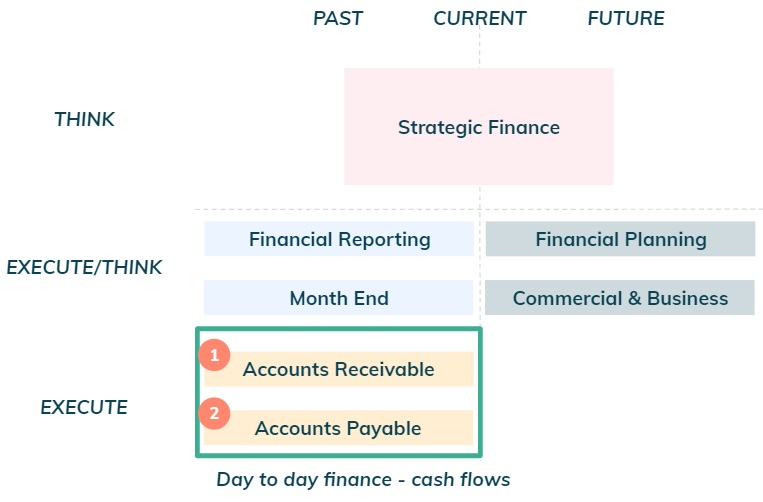
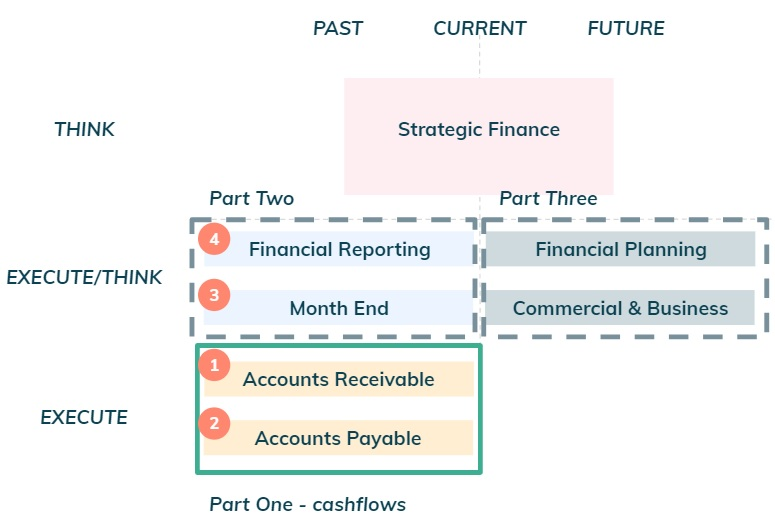
done

diff --git a/POSTS/DOT6.html b/POSTS/DOT6.html
@@ -4,8 +4,8 @@
         <meta name="viewport" content="width=device-width, initial-scale=1, shrink-to-fit=no" />
         <meta property="og:type" content="article"/>
         <meta property="og:url" content="http://dotslog.com/POSTS/DOT6.html"/>
-        <meta property="og:title" content="Dot 6 (How To): Operational Finance - Part One"/>
-        <meta property="og:description" content="How to automate finance tasks relating to AP & AR"/>
+        <meta property="og:title" content="Dot #6 : Operational Finance - Part One"/>
+        <meta property="og:description" content="Automating finance tasks relating to cashflows"/>
         <meta property="og:image" content="http://dotslog.com/DOTFILES/DOT5/img/pexels-tyler-lastovich-808465-min.jpg"/>
         <meta property="og:site_name" content="DotsLog"/>
         <meta charset="utf-8" />
@@ -42,8 +42,8 @@
                 <div class="row gx-4 gx-lg-5 justify-content-center">
                     <div class="col-md-10 col-lg-8 col-xl-7">
                         <div class="post-heading">
-                            <h2 >Dot 6 (How To): Operational Finance - Part One</h2>
-                            <h3 class="subheading">How to automate finance tasks relating to AP & AR</h3>
+                            <h2 >Dot #6 : Operational Finance - Part One</h2>
+                            <h3 class="subheading">Automating finance tasks relating to cashflows</h3>
                             <span class="meta">
                                 Written by
                                 <a href="../index.html">Tiago Dias</a>
@@ -62,29 +62,26 @@
                         <!-- SUMMARY-->
                         <h1 > Summary</h1>
                         <p align="justify">                         
-                            This note goes through a detailed overview of the operations relating to Accounts Receivable 
-                            and Account Payable for a young startup and explains how to automate some of the steps. 
-                            Part two and three will cover respectively Financial Reporting and Financial Planning.                                                    
-                        </p>                
-                        <!-- SECTION 1-->
-                        <h2 class="section-heading">Day to to day finance: cash flows </h2>
-                        <p align="justify">
-                            In a previous note, the key finance tasks were split as follows.
+                            This is the first note of a series of three notes that will go through day to day finance 
+                            tasks and how to automate them to minimise time spent producing numbers. <br>                                            
+                            Part one goes through a detailed overview of the operations relating to cashflows 
+                            for a young startup (series B or earlier).<br> Part two and three will cover respectively 
+                            Financial Reporting and Financial Planning.
                         </p>
                         <img class="img-fluid" src="../DOTFILES/DOT6/img/D6P1.jpg" alt="..." />
-                        <span class="caption text-muted">Figure 1: Finance key tasks.</span>
+                        <span class="caption text-muted">Figure 1: Series of three notes.</span>
                         <p align="justify">
-                            On this note we are going to drill down on the operations for the cash flows of a young 
-                            startup as per the figure below.
+                            On this note we are going to drill down finance tasks relating to Accounts Receivable (“AR”), 
+                            i.e. inflows to be received from clients and Accounts Payable (“AP”), i.e. outflows to be paid to suppliers.
                         </p>
                         <img class="img-fluid" src="../DOTFILES/DOT6/img/D6P2.jpg" alt="..." />
                         <span class="caption text-muted">Figure 2: Accounts Receivable and Accounts Payable.</span>
                         <p align="justify">
                             Cashflows are thus equal to cash inflows from clients relating to revenues net 
-                            of cash outflows paid to suppliers. As a reminder, a common source of mistakes in 
+                            of cash outflows paid to suppliers.<br> As a reminder, <strong>a common source of mistakes in 
                             numbers is to represent both as positive numbers and subtract them; to avoid this, 
                             one should represent cash inflows as a positive number (e.g £100) and cash outflows as 
-                            a negative number (e.g (£20)) and then ADD both numbers to get to cash flows (£80 = £100 + (£20)).
+                            a negative number (e.g (£20)) and then ADD both numbers</strong> to get to cash flows (£80 = £100 + (£20)).
                         </p>
 
                          <!-- SECTION 2-->
@@ -92,9 +89,9 @@
                         <p align="justify">
                             Whenever there is revenue earned, there will be an invoice sent to a 
                             client requesting payment for the service or product and the amount is 
-                            recognised in the P&L statement.  Accounts Receivables (“AR”) thus relates to 
-                            client invoices for which payment has not been received yet. These show up as a 
-                            current asset in the balance sheet (i.e. cash inflow expected soon).
+                            recognised in the P&L statement.<br> <strong> Accounts Receivables (“AR”) relates to 
+                            client invoices for which payment has not been received yet</strong>. These show up as a 
+                            current asset in the balance sheet (i.e. cash inflow expected to be received soon).
                         </p>
                         <img class="img-fluid" src="../DOTFILES/DOT6/img/D6P3.jpg" alt="..." />
                         <span class="caption text-muted">Figure 3: Accounts Receivable concept.</span>
@@ -106,20 +103,30 @@
                         <img class="img-fluid" src="../DOTFILES/DOT6/img/D6P4.jpg" alt="..." />
                         <span class="caption text-muted">Figure 4: Accounts Receivable operational steps.</span>
                         <p align="justify">
-                            Accounting systems such as Xero or Quickbooks automate steps A and B above, 
-                            however this will break above a certain volume of invoices (likely fine for up to hundreds per month), 
-                            different currencies and number of legal entities. For simple applications the following spreadsheet 
-                            <a href="https://docs.google.com/spreadsheets/d/1K5jHVBWgto4FvnvAsHJ6GQM60pnoubcpqRKjS19zJGM/edit#gid=1856528211" target="_blank">
-                                (AR automatic emails for invoices)</a>, automates sending an email with an invoice to a client 
-                            using a google apps script (see appendix for details).
+                            <strong>Steps A and B:</strong> For simple applications the following spreadsheet 
+                                    <a href="https://docs.google.com/spreadsheets/d/1K5jHVBWgto4FvnvAsHJ6GQM60pnoubcpqRKjS19zJGM/edit#gid=1856528211" target="_blank">
+                                        (AR automatic emails for invoices)</a>, automates sending an email with an invoice to a client 
+                                    using a google apps script (see appendix for details).<br>
+                                    Accounting systems such as Xero or Quickbooks automate are better suited to automate steps A and B above, 
+                                    however this will break above a certain volume of invoices (likely fine for up to hundreds per month), 
+                            different currencies and number of legal entities.                           
+                        </p>
+                        <p align="justify">
+                            <strong>Step C:</strong> Clients do not always pay on time, so it is common to use Xero or Quickbooks to chase 
+                            payments automatically for this step.
+                        </p>
+                        <p align="justify">
+                            <strong>Step D:</strong> The accounting system will receive the bank feeds for each operational bank account. The bookkeeper 
+                            will manually match an inflow to an invoice (there are startups trying to automate this...).
                         </p>
                          <!-- SECTION 3-->
                         <h2 class="section-heading">Day to to day finance: Accounts Payable</h2>
                         <p align="justify">
                             Whenever there is a cost incurred, there will be an invoice received from a supplier 
-                            requesting payment for the service or product and the amount is recognised in the P&L. 
-                            Accounts Payable (“AP”) thus relates to unpaid supplier invoices. These show up as a current 
-                            liability in the balance sheet (i.e. cash outflow expected soon).
+                            requesting payment for the service or product and the amount is recognised in the P&L
+                            (unless it was already accrued for in the past). <br>
+                            <strong>Accounts Payable (“AP”) relates to unpaid supplier invoices</strong>. These show up as a current 
+                            liability in the balance sheet (i.e. cash outflow expected to be paid soon).
                         </p>
                         <img class="img-fluid" src="../DOTFILES/DOT6/img/D6P5.jpg" alt="..." />
                         <span class="caption text-muted">Figure 5: Accounts Payable concept.</span>
@@ -134,72 +141,83 @@
                             First let's lay out the process that requires improvement.
                             <ul align="justify">
                                 <li><strong>Step 1:</strong> supplier sends an invoice to an employee at the Company 
-                                    (the one that requested the service or goods). In some situations, 
-                                    this is sent to Finance who then needs to figure out who should approve it internally.
+                                    (the one that requested the service or goods). In some companies, 
+                                    this is sent to Finance who then needs to figure out who should approve it internally. 
+                                    <strong> This wastes a lot of time.</strong>
                                 </li>
                                 <li><strong>Step 2:</strong> the employee may exchange several emails with the supplier 
-                                    if there are mistakes in the invoice.
+                                    if there are mistakes in the invoice.<strong> Again, this wastes a lot of time.</strong>
                                 </li>
                                 <li><strong>Step 3:</strong> the employee then forwards the approved invoice to an email 
-                                    distribution list which forward’s emails to an Optical Recognition System (OCR) to digitalise the invoice. 
-                                    This is then push to the accounting system (Xero below in this example)
+                                    distribution list, which forward’s emails to an Optical Recognition System (OCR) to digitalise the invoice. 
+                                    This is then pushed to the accounting system (Xero below in this example)
                                     <ul align="justify">
                                         <li>
-                                            There is risk that an unapproved invoices get sent to the accounting 
-                                            system as the OCR as not checks in place for emails received
+                                            <strong>There is risk that an unapproved invoices get sent to the accounting 
+                                            system as the OCR as not checks in place for emails received. Even worse, they may actually end up being paid.</strong>
                                         </li>
                                     </ul>    
                                 </li>
-                                <li><strong>Step 4:</strong> there is typically a weekly pay run to pay approved invoices due
+                                <li><strong>Step 4:</strong> there is typically a weekly pay run to pay approved invoices due. The bookkeeper needs to email the head of the finance department 
+                                    the payments due so that it can approve setting up payments.<strong> Time is wasted.</strong>
+                                    <ul align="justify">
+                                    <li><strong>This is also not great from a cashflow perspective, as some invoices get paid ahead of their due date</strong>
+                                        (e.g Friday payrun would include all invoices with due dates up until next Thursday)
+                                    </ul>
+                                </li>
                                 </li>
                                 <li><strong>Step 5:</strong> there is one payment set up in the online banking system, 
-                                    for each invoice, which is very time consuming.
+                                    for each invoice. <strong>This is very time consuming.</strong>
                                 </li>
+                                <li><strong>Step 6:</strong> Bookkeeper sends an email to an approver to release the payments. 
+                                    The approver then needs to login to online banking system and release each payment.<strong> You guessed...Time wasted again.</strong>
+                                </li>
+                                <br>
+                                Overall this process will take many email exchanges and lot of time wasted. <strong>In particular, setting up a payrun and releasing payments will take several hours. There is a much better way to do this.</strong> 
                              </ul>
                         </p>
                         <img class="img-fluid" src="../DOTFILES/DOT6/img/D6P7.jpg" alt="..." />
                         <span class="caption text-muted">Figure 7: Detailed operations to approve and pay invoice</span>
                         <p align="justify">
-                            Now let's lay out an almost fully automated process.
+                            Now let's lay out a much better process, that is almost fully automated.
                             <ul align="justify">
                                 <li><strong>Step 1:</strong> supplier sends an invoice to an email distribution list. 
-                                    This contains an email to an AP system (link here -  
-                                    <a href="https://cp.corpayone.com/" target="_blank"><strong>Corpay One</strong></a>
-                                    ) that deals with the OCR.
+                                    This contains an email to an AP system (link here for what I use -  
+                                    <a href="https://cp.corpayone.com/" target="_blank"><u>Corpay One</u></a>) that deals with the OCR.
 
                                 </li>
                                 <li><strong>Step 2:</strong>  AP systems automatically upload invoices to the platform.
                                 </li>
                                 <li><strong>Step 3:</strong> AP systems allow to set up workflows based on different rules
-                                     which are used to automatically determine the Approver of the invoice. T
-                                     his automates a lot of the process already.
+                                     which are used to automatically determine the Approver of the invoice. 
+                                     <Strong>Everything is automated and no time is wasted by finance or company employees.</Strong>
                                 </li>
-                                <li><strong>Step 4:</strong> Once approved goes to the bookkeeper.  There is NO risk 
-                                    that an unapproved invoices get sent to the accounting system as otherwise it would not receive it.
+                                <li><strong>Step 4:</strong> Once invoice is approved it goes to the bookkeeper. <strong>There is NO risk 
+                                    that an unapproved invoices get sent to the accounting system or paid. So much better.</strong> 
                                 </li>
-                                <li><strong>Step 5:</strong> Bookkeeper pushes approved invoices to the accounting system.
+                                <li><strong>Step 5:</strong> Bookkeeper acts as a gatekeeper to any information sent to the accounting system.
+                                    If all fine, it pushes approved invoices into the system.
                                 </li>
                              </ul>
                         </p>
                         <img class="img-fluid" src="../DOTFILES/DOT6/img/D6P8.jpg" alt="..." />
                         <span class="caption text-muted">Figure 8: Fully automated process to deal with approving invoices.</span>
                         <p align="justify">
-                            Now let's lay out an almost fully automated process.
                             <ul align="justify">
                                 <li><strong>Step 6:</strong> Accounting system used to automatically provide information to Wise 
-                                    on all invoices to be paid (payment details and amount)
+                                    on all invoices to be paid (payment details and amount).
                                 </li>
-                                <li><strong>Step 7:</strong> One transfer set up to pay with full amount of invoices to be paid
+                                <li><strong>Step 7:</strong> One transfer set up to pay the full amount of invoices to be paid.
                                 </li>
-                                <li><strong>Step 8:</strong> One funds are received at Wise, it automatically pays each supplier individually
+                                <li><strong>Step 8:</strong> Once funds are received at Wise, it automatically pays each supplier individually.
                                 </li>
                             </ul>
                             <img class="img-fluid" src="../DOTFILES/DOT6/img/D6P9.jpg" alt="..." />
                         <span class="caption text-muted">Figure 9: Almost fully automated process to deal with approving invoices.</span>
                         <p align="justify">
-                            This is a much more automated process and it is much less likely that there will be any mistakes done. 
-                            It takes only minutes (instead one hour or more) to do the payrun. The final step to fully automate this 
-                            is to make payments from the AP platform which will be launched soon.
+                            <strong>This is a much more automated process and it is much less likely that mistakes are done. 
+                            It takes like 10 minutes to do the payrun (vs several hours). The final step to fully automate the process 
+                            is to make payments from the AP platform (this will be available in a near future).</strong>
                         </p>
                          <!-- END-->
                     <p align="justify">If you require support or have any questions my contact is: <a ><img class="img-fluid" src="../assets/img/email.jpg" alt="..." /></a></p>
